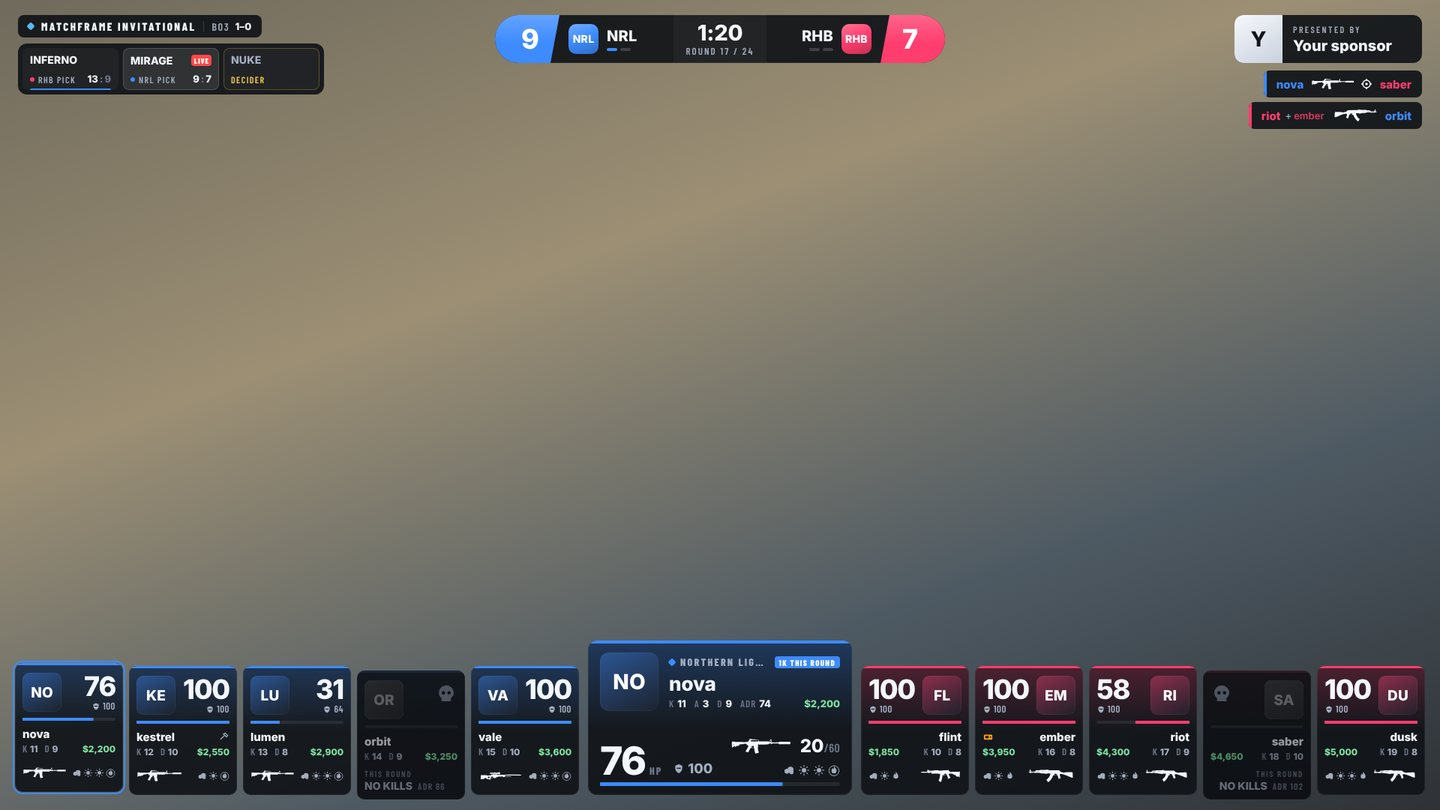
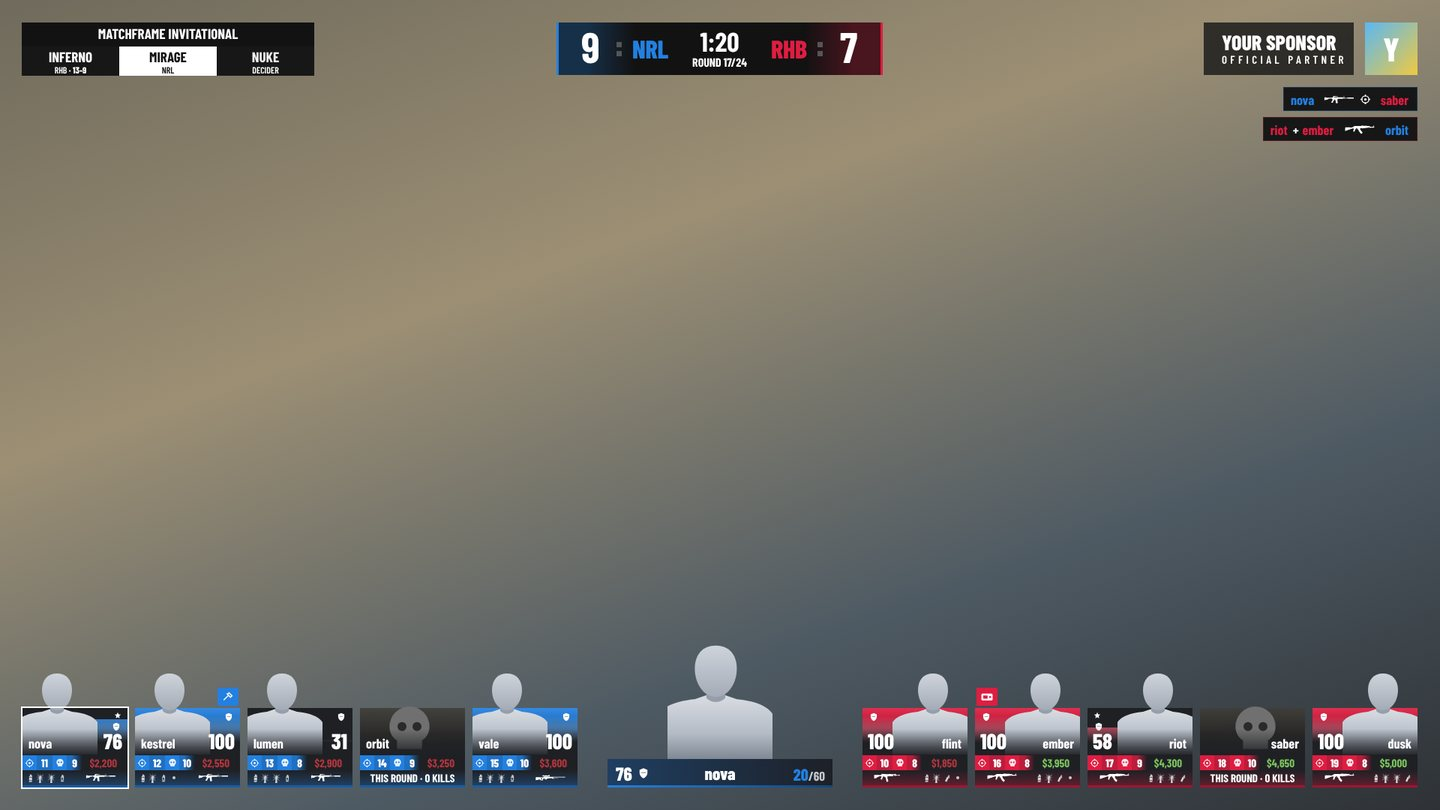
Vector and Lineup HUDs: match the reference layouts and colours (0.10.0)
Both bundled HUD packages redone to the owner's references: layout,
sizes, positions and colour treatment measured from the recordings and
checked side by side, animations unchanged. Our own code, icons and
fonts (Vector: Montserrat; Lineup: Barlow Condensed); silhouettes for
players without a photo. Unused font imports dropped, thumbnails and
doc screenshots regenerated, ADR-055, release notes, changelogs and
notices updated.

Claude-Session: https://claude.ai/code/session_01LaAUjAPvcaB4FzYKB4XiF4

diff --git a/apps/cloud-web/src/pages/site/Changelog.tsx b/apps/cloud-web/src/pages/site/Changelog.tsx
@@ -18,7 +18,7 @@ const RELEASES: Release[] = [
       {
         heading: "HUD Library",
         items: [
-          "Vector: each team's players down its side of the screen, angled dark-glass panels, loss bonus and series in freeze time, a winner card when the round ends.",
+          "Vector: each team's players down its side of the screen on team-colour cards with photos, loss bonus and series in freeze time, a winner card when the round ends.",
           "Lineup: all ten players in a row along the bottom, the observed player in the middle, and a score bar that turns into the round winner's banner.",
           "Both show the radar, killfeed, bomb and defuse bar and players alive, have a compact variant, and animate smoothly without straining the graphics card.",
         ],

diff --git a/apps/hud-designs/src/vector/main.tsx b/apps/hud-designs/src/vector/main.tsx
@@ -1,8 +1,6 @@
 import "@fontsource/inter/400.css";
 import "@fontsource/inter/600.css";
 import "@fontsource/inter/800.css";
-import "@fontsource/barlow-condensed/600.css";
-import "@fontsource/barlow-condensed/800.css";
 import "./vector.css";
 import { createRoot } from "react-dom/client";
 import App from "./App.tsx";

diff --git a/apps/hud-designs/src/lineup/main.tsx b/apps/hud-designs/src/lineup/main.tsx
@@ -1,6 +1,3 @@
-import "@fontsource/inter/400.css";
-import "@fontsource/inter/600.css";
-import "@fontsource/inter/800.css";
 import "@fontsource/barlow-condensed/600.css";
 import "@fontsource/barlow-condensed/700.css";
 import "@fontsource/barlow-condensed/800.css";

diff --git a/docs/architecture/decisions.md b/docs/architecture/decisions.md
@@ -1095,13 +1095,26 @@ Measured with kaiHUD 1.0.2 in Chromium through Matchframe, with a player running
 **Context.** The owner (0.9.x) sent two commercial CS2 HUDs, one with team columns at the sides and one with all ten players along the bottom: "Can you make copies of these huds and design them with all Animations as close as possible but keeping a different design aspect to them."
 
 **Decision.**
-- **What is copied:** layout conventions and motion only. No artwork, logos, code or fonts from the references, and their names appear nowhere in the product. The timings were measured frame by frame from the owner's screen recordings:
+- **What is copied:** layout, sizes, positions, colour treatment and motion. The first versions had a deliberately different look (dark panels with thin team-colour stripes); the owner found them nothing like the references, so both were redone to match them closely. Every component was measured from the recordings and checked side by side with them. No artwork, logos, branding text, code or fonts come from the references, and their names appear nowhere in the product. The timings were measured frame by frame from the owner's screen recordings:
   - **Going live:** the loss-bonus pills tuck into the score bar (about 200 ms), the series strip wipes away right to left (about 270 ms), and the players-alive box slides in from the right (about 150 ms, starting about 70 ms after the clock flips).
   - **A kill:** the victim's card goes dead within about 100 ms, and about 100 ms later the killfeed row slides in (about 120 ms).
   - **Round won:** in the side-column HUD, a winner card fades and scales in under the bar (about 180 ms). In the bottom-row HUD, a panel in the winner's colour grows from the centre of the score bar over the whole bar (about 200 ms), then the winner's logo comes in (about 60 ms later).
-- **Vector** (side columns) and **Lineup** (bottom row) are separate HUD packages in `apps/hud-designs`, one Vite build per HUD. They share the demo scenes, the format helpers, and the HUD renderer's weapon silhouettes, glyphs and radar. Their looks differ from the references:
-  - **Vector:** dark graphite panels with angled ends, thin team-colour stripes, Barlow Condensed.
-  - **Lineup:** dark cards with a team-colour top edge, a dark capsule score bar with coloured end caps, Inter.
+- **Vector** (side columns) and **Lineup** (bottom row) are separate HUD packages in `apps/hud-designs`, one Vite build per HUD. They share the demo scenes, the format helpers, and the HUD renderer's weapon silhouettes, glyphs and radar.
+  - **Vector** (Montserrat, bundled with the Pro CS2 HUD; OFL):
+    - a score bar of solid team-colour halves and a dark clock block;
+    - player cards with a photo slot, a team-colour band and a dark stats area;
+    - solid loss-bonus pills;
+    - a solid two-colour players-alive box;
+    - outlined killfeed rows.
+  - **Lineup** (Barlow Condensed):
+    - a title bar with series tabs;
+    - a near-black score bar with team-colour ends;
+    - a sponsor box;
+    - small solid team-colour cards with the portrait standing above each card.
+  - **Different from the references:**
+    - our own icons and fonts;
+    - a neutral silhouette where a player has no photo;
+    - a monogram or wordmark where a team has no logo.
 - **Bundled:** both are installed into the library on first start, like the Pro CS2 HUD: electron-builder copies `dist/vector` and `dist/lineup` into `sample-huds`, and the engine's dev folders include `apps/hud-designs/dist`.
 - **Performance** (the owner's imported HUD lagged):
   - Only transform, opacity and clip-path animate.

diff --git a/THIRD_PARTY_NOTICES.md b/THIRD_PARTY_NOTICES.md
@@ -23,8 +23,8 @@ Matchframe Esports is original software. This file lists third-party components 
 | ↳ base64id, cookie, cors, object-assign, vary | 2.0.0, 0.7.2, 2.8.6, 4.1.1, 1.1.2 | MIT | socket.io, engine.io |
 | ↳ debug, ws | 4.3.7, 8.21.3 | MIT | socket.io, engine.io |
 | react, react-dom, scheduler | 19.3.1, 19.3.1, 0.28.0 | MIT | HUD renderer, operator UI |
-| @fontsource/inter | 5.3.0 | OFL-1.1 (font: Inter, © The Inter Project Authors) | HUD renderer; Vector and Lineup HUDs |
-| @fontsource/barlow-condensed | 5.3.0 | OFL-1.1 (font: Barlow, © The Barlow Project Authors) | HUD renderer (Arena preset); operator console (match thumbnails and stingers); Vector and Lineup HUDs |
+| @fontsource/inter | 5.3.0 | OFL-1.1 (font: Inter, © The Inter Project Authors) | HUD renderer; Vector HUD |
+| @fontsource/barlow-condensed | 5.3.0 | OFL-1.1 (font: Barlow, © The Barlow Project Authors) | HUD renderer (Arena preset); operator console (match thumbnails and stingers); Lineup HUD |
 | Electron | 44.9.3 | MIT (bundles Chromium and Node.js; their licences ship in `LICENSES.chromium.html` / `LICENSE` inside the Electron distribution) | Desktop shell |
 | koffi (optional, Windows keyboard adapter) | not bundled by default | MIT | Observer keyboard fallback |
 | grandi | 2.0.2 | Apache-2.0 (`NOTICE`: derived from Streampunk's Grandiose, © 2018 Streampunk Media Ltd., and community forks) | Replay feed: receiving the replay PC's screen over NDI (in the feed's own process) |
@@ -43,7 +43,7 @@ Operator UI dependencies are listed in `apps/operator-web/package.json` and incl
 |---|---|---|
 | Matchframe Sample CS2 HUD (`assets/hud-packages/matchframe-sample-cs2`) | Original code and artwork; weapon icons from Lexogrine's CS2 React HUD (`images/weapons`); Inter font files | Code MIT; weapon icons MIT (`images/weapons/LICENSE-lexogrine.txt`, see the note below); Inter SIL OFL 1.1 (`fonts/OFL.txt`) |
 | Matchframe Pro CS2 HUD (`apps/hud-template`) | Adapted from Lexogrine's CS2 React HUD (https://github.com/lexogrine/cs2-react-hud, © 2021 Lexogrine); Montserrat font files | Lexogrine code MIT (`LICENSE-lexogrine.txt`); Montserrat SIL OFL 1.1 (© 2011 The Montserrat Project Authors) |
-| Matchframe Vector and Lineup HUDs (`apps/hud-designs`) | Original code and design; weapon icons from Lexogrine's CS2 React HUD (shared with the HUD renderer); Barlow Condensed and Inter font files | Code MIT; weapon icons MIT (`LICENSE-lexogrine.txt` in each package); fonts SIL OFL 1.1 (`OFL-fonts.txt` in each package) |
+| Matchframe Vector and Lineup HUDs (`apps/hud-designs`) | Original Matchframe code; weapon icons from Lexogrine's CS2 React HUD (shared with the HUD renderer); Montserrat and Inter font files (Vector), Barlow Condensed font files (Lineup) | Code MIT; weapon icons MIT (`LICENSE-lexogrine.txt` in each package); fonts SIL OFL 1.1 (`OFL-fonts.txt` in each package; Vector also `OFL-Montserrat.txt`) |
 
 The weapon and equipment icons in the Pro CS2 HUD (also used by the Matchframe Broadcast HUD's killfeed and the Sample CS2 HUD) come with Lexogrine's template and originate from Counter-Strike 2 game files (© Valve Corporation). Lexogrine's MIT licence covers their code, not Valve's artwork. Counter-Strike broadcast HUDs commonly use these icons; a commercial distribution should confirm it is covered by Valve's terms for broadcasting Counter-Strike, or replace them with original icons.
 

diff --git a/CHANGELOG.md b/CHANGELOG.md
@@ -68,8 +68,8 @@ All notable changes to Matchframe Esports. Versions follow semantic versioning o
   - **Cache:** map pack from a pro demo's place names (46 areas), free-space grid and 87 cameras / 10 paths from CS2's meshes; in the default event pool with Ancient, Anubis, Dust II, Inferno, Mirage and Nuke.
   - **Team shots tuned on real positions:** finer spots (48 bearings, 6 distances, up to 300 units high), a size score, and a well-sized four over a distant five. Every round of the seven demos framed (272 shots).
 - **Vector and Lineup HUDs** (version 0.10.0, ADR-055, from two commercial HUDs the owner sent):
-  - Two original broadcast HUD packages in `apps/hud-designs`, bundled into the library like the Pro CS2 HUD. They copy the references' layout and motion, timed frame by frame from the owner's recordings, but have their own design.
-  - **Vector** (`matchframe.vector`): team columns at the sides, angled dark-glass panels. Freeze-time loss bonus, series strip and utility rows; going-live sequence; collapsing dead cards; bomb and defuse bar; winner card.
+  - Two original broadcast HUD packages in `apps/hud-designs`, bundled into the library like the Pro CS2 HUD. They match the references' layout, sizes, colours and motion, measured from the owner's recordings and checked side by side, with our own code, icons and fonts.
+  - **Vector** (`matchframe.vector`): team columns at the sides: solid team-colour score bar halves and card bands, photo slots, a two-colour players-alive box. Freeze-time loss bonus, series strip and utility rows; going-live sequence; collapsing dead cards; bomb and defuse bar; winner card.
   - **Lineup** (`matchframe.lineup`): ten cards along the bottom with the observed player in the middle, a capsule score bar that becomes the winner's banner, an event and series panel, and a sponsor slot.
   - **Performance:** only transform, opacity and clip-path animate; no backdrop-filter; only the clocks re-render at 10 Hz.
   - **Tools:** `?demo=<scene>` / `?demo=cycle` sample states, `scripts/shots.mjs` (scenes and transitions) and `scripts/thumbnail.mjs`. The CI builds both packages; the installed-program smoke test checks that both are installed.

diff --git a/docs/release-notes/0.10.0-dev.md b/docs/release-notes/0.10.0-dev.md
@@ -6,11 +6,13 @@
 
 ## Two new HUDs: Vector and Lineup
 
-Two broadcast HUDs of Matchframe's own, built from the two HUDs you sent. Their layout and animations follow those HUDs closely, timed frame by frame from your recordings. Their look is new: no artwork, logos or code from the originals.
+Two broadcast HUDs of Matchframe's own, built from the two HUDs you sent. They match those HUDs closely: layout, sizes, colours and animations, measured frame by frame from your recordings. They use none of the originals' artwork, logos or code. Players without a photo show a silhouette, and teams without a logo show their short name.
 
 ### Vector
 
-Each team's players run down its own side of the screen. Dark glass panels with angled ends and thin team-colour stripes.
+Each team's players run down its own side of the screen.
+- **Player cards:** a photo, a team-colour band with the name and health, and a dark area with K/D, money, weapon and utility.
+- **Score bar:** solid blue and red halves with the clock between them.
 
 - **Freeze time:** the loss bonus hangs off both ends of the score bar, the series maps sit under it, and each team's grenades and equipment value sit above its players.
 - **Going live:** the clock flips, the loss bonus tucks into the bar, the series wipes away, and the players-alive box slides in from the right.
@@ -20,7 +22,9 @@ Each team's players run down its own side of the screen. Dark glass panels with 
 
 ### Lineup
 
-All ten players in one row along the bottom, with the observed player in the middle. Dark cards with a team-colour top edge.
+All ten players in one row along the bottom, with the observed player in the middle.
+- **Player cards:** small solid blue and red cards, with each player's photo standing above their card.
+- **Score bar:** slim and dark, with team-colour ends.
 
 - **Freeze time:** the middle panel shows both teams' equipment, money, loss bonus and grenades. When the round goes live it gives way to the observed player.
 - **Round won:** the winner's colour sweeps out from the middle of the score bar over the whole bar, then their logo comes in. The bar goes back to normal, with the new score, when freeze time starts.
